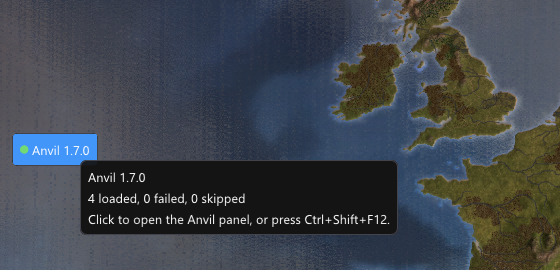
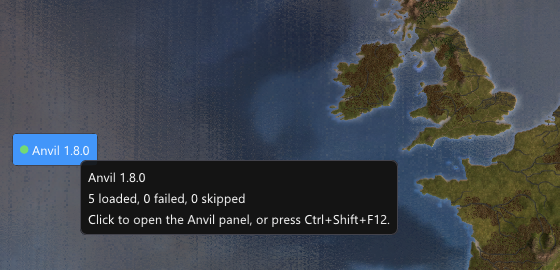
docs: take the badge screenshot from the Anvil 1.8.0 release and say 1.8 is released

diff --git a/src/content/docs/docs/install.md b/src/content/docs/docs/install.md
@@ -81,7 +81,7 @@ with the plugins' status, their settings, the crash report and the log (the key
 menu, never in a game. To hide it, turn off **Show Anvil in the main menu** on the panel's
 **Settings** tab (plugin `anvil-overlay`).
 
-![The Anvil badge on the left edge of the game's main menu, with its tooltip: 4 loaded, 0 failed, 0 skipped; click to open the Anvil panel, or press Ctrl+Shift+F12.](../../../assets/menu-badge.png)
+![The Anvil badge on the left edge of the game's main menu, with its tooltip: Anvil 1.8.0, 5 loaded, 0 failed, 0 skipped; click to open the Anvil panel, or press Ctrl+Shift+F12.](../../../assets/menu-badge.png)
 
 The overlay draws on the game's Direct3D 9 renderer; with OpenGL there is no badge and no
 panel, and Anvil Manager shows the same information outside the game.

diff --git a/src/content/docs/docs/roadmap.md b/src/content/docs/docs/roadmap.md
@@ -3,9 +3,9 @@ title: Roadmap
 description: What Anvil has, what comes next, and what is not planned.
 ---
 
-Anvil 1.7 is released: plugin API 2, the in-game overlay, Anvil Manager, plugins from mods,
+Anvil 1.8 is released: plugin API 2, the in-game overlay, Anvil Manager, plugins from mods,
 the start-up benchmark, a shorter `error.log`, the overlay and the Manager in four
-languages, and the GOG build of EU4 1.37.5. Further work is a plan, not a promise, and has no dates. Source: the delivery plan in Anvil's
+languages, the GOG build of EU4 1.37.5, and a badge in the game's main menu. Further work is a plan, not a promise, and has no dates. Source: the delivery plan in Anvil's
 [design notes](https://github.com/happy-dwarf-team/anvil/blob/main/docs/design.md#22-delivery).
 
 ## Done
